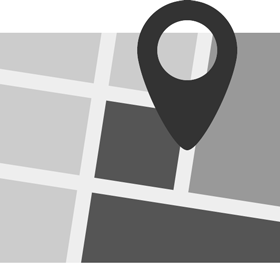
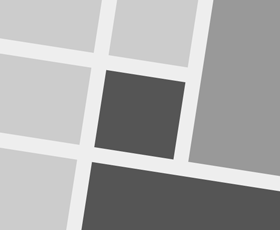
Tweaks RequestGPS and Timeline instructions cells. Adds new attributes property to FontThemer

diff --git a/wineguide/Nearby Restaurants/InstructionsCell_RequestGPS.m b/wineguide/Nearby Restaurants/InstructionsCell_RequestGPS.m
@@ -15,13 +15,13 @@
 @interface InstructionsCell_RequestGPS ()
 
 @property (weak, nonatomic) IBOutlet VariableHeightTV *instructions_VHTV;
-@property (weak, nonatomic) IBOutlet UIImageView *instructionsImageView;
+@property (weak, nonatomic) IBOutlet UIImageView *mapImageView;
 @property (weak, nonatomic) IBOutlet RoundedRectButton *accessButton;
+@property (weak, nonatomic) IBOutlet UIImageView *gpsImageView;
 
 // Vertical constraints
 @property (weak, nonatomic) IBOutlet NSLayoutConstraint *topToInstructionsVHTVConstraint;
-@property (weak, nonatomic) IBOutlet NSLayoutConstraint *instructionsVhtvToInstructionsImageViewConstraint;
-@property (weak, nonatomic) IBOutlet NSLayoutConstraint *instructionsImageViewToAccessButtonConstraint;
+@property (weak, nonatomic) IBOutlet NSLayoutConstraint *instructionsVhtvToAccessButtonConstraint;
 @property (weak, nonatomic) IBOutlet NSLayoutConstraint *accessButtonToBottomConstraint;
 
 @end
@@ -37,8 +37,14 @@
     [self.accessButton setAttributedTitle:accessButtonAttributedText forState:UIControlStateNormal];
     
     NSString *instructions = @"In order to find the restaurant you're at Corkie needs access to your location data.";
-    self.instructions_VHTV.attributedText = [[NSAttributedString alloc] initWithString:instructions attributes:@{NSForegroundColorAttributeName : [ColorSchemer sharedInstance].textSecondary, NSFontAttributeName : [FontThemer sharedInstance].body}];
+    self.instructions_VHTV.attributedText = [[NSAttributedString alloc] initWithString:instructions attributes:[FontThemer sharedInstance].secondaryBodyTextAttributes];
+    self.backgroundColor = [ColorSchemer sharedInstance].customBackgroundColor;
     
+    self.gpsImageView.image = [[UIImage imageNamed:@"instructions_gps.png"] imageWithRenderingMode:UIImageRenderingModeAlwaysTemplate];
+    self.gpsImageView.tintColor = [ColorSchemer sharedInstance].baseColor;
+    
+    self.mapImageView.layer.masksToBounds = YES;
+    self.mapImageView.layer.cornerRadius = 10;
     
     [self setViewHeight];
 }
@@ -46,12 +52,9 @@
 -(void)setViewHeight
 {
     CGFloat height = 0;
-    
     height += self.topToInstructionsVHTVConstraint.constant;
     height += [self.instructions_VHTV height];
-    height += self.instructionsVhtvToInstructionsImageViewConstraint.constant;
-    height += self.instructionsImageView.bounds.size.height;
-    height += self.instructionsImageViewToAccessButtonConstraint.constant;
+    height += self.instructionsVhtvToAccessButtonConstraint.constant;
     height += self.accessButton.bounds.size.height;
     height += self.accessButtonToBottomConstraint.constant;
     

diff --git a/wineguide/Timeline/InstructionsCell_Timeline.m b/wineguide/Timeline/InstructionsCell_Timeline.m
@@ -7,19 +7,43 @@
 //
 
 #import "InstructionsCell_Timeline.h"
+#import "VariableHeightTV.h"
+#import "ColorSchemer.h"
+#import "FontThemer.h"
+
+@interface InstructionsCell_Timeline ()
+
+@property (weak, nonatomic) IBOutlet UIImageView *instructionsImageView;
+@property (weak, nonatomic) IBOutlet VariableHeightTV *instructionsVHTV;
+
+@property (weak, nonatomic) IBOutlet NSLayoutConstraint *topToInstructionsVhtvConstraint;
+@property (weak, nonatomic) IBOutlet NSLayoutConstraint *instructionsVhtvToBottomConstraint;
+@end
 
 @implementation InstructionsCell_Timeline
 
 - (void)awakeFromNib
 {
     // Initialization code
+    
+    NSString *instructions = @"Your timeline is where you keep track of all the wines you drink.\n\nTo add a Tasting Record to your timeline go to that wine's details page and click the 'Tried It' button.";
+    self.instructionsVHTV.attributedText = [[NSAttributedString alloc] initWithString:instructions attributes:[FontThemer sharedInstance].secondaryBodyTextAttributes];
+    
+    self.instructionsImageView.image = [[UIImage imageNamed:@"instructions_timeline.png"] imageWithRenderingMode:UIImageRenderingModeAlwaysTemplate];
+    self.instructionsImageView.tintColor = [ColorSchemer sharedInstance].baseColor;
+    
+    [self setViewHeight];
 }
 
-- (void)setSelected:(BOOL)selected animated:(BOOL)animated
-{
-    [super setSelected:selected animated:animated];
 
-    // Configure the view for the selected state
+-(void)setViewHeight
+{
+    CGFloat height = 0;
+    height += self.topToInstructionsVhtvConstraint.constant;
+    height += [self.instructionsVHTV height]*1.1;
+    height += self.instructionsVhtvToBottomConstraint.constant;
+    
+    self.bounds = CGRectMake(0, 0, self.bounds.size.width, height);
 }
 
 @end

diff --git a/wineguide/controllers/UserProfileVC.m b/wineguide/controllers/UserProfileVC.m
@@ -14,6 +14,7 @@
 #import "Timeline_SICDTVC.h"
 #import "Cellar_SICDTVC.h"
 #import "ColorSchemer.h"
+#import "FontThemer.h"
 
 #define USER_PROFILE_PAGE_CELL  @"UserCell"
 #define USER_ENTITY  @"User"
@@ -103,17 +104,17 @@
 
 -(void)setupNameLabel
 {
-    NSString *name;
+    NSString *text;
     if(self.user.nameFirst){
-        name = [NSString stringWithFormat:@"%@ %@.",self.user.nameFirst, self.user.nameLastInitial];
+        text = [NSString stringWithFormat:@"%@ %@.",self.user.nameFirst, self.user.nameLastInitial];
     } else {
         if(self.user.isMe){
-            name = @"Create a profile and:\n- add friends to your tasting records\n- see which wines your friends like and are drinking\n- sync your devices\n- etc.";
+            text = @"Create a profile and:\n・add friends to your tasting records\n・see which wines your friends like and are drinking\n・sync your devices\n・etc.";
         } else {
-            name = @"";
+            text = @"";
         }
     }
-    self.nameLabel.text = name;
+    self.nameLabel.attributedText = [[NSAttributedString alloc] initWithString:text attributes:[FontThemer sharedInstance].secondaryBodyTextAttributes];
 }
 
 -(void)setupUserProfileImage

diff --git a/wineguide/model/FontThemer.m b/wineguide/model/FontThemer.m
@@ -7,6 +7,7 @@
 //
 
 #import "FontThemer.h"
+#import "ColorSchemer.h"
 
 @interface FontThemer ()
 
@@ -16,6 +17,7 @@
 @property (nonatomic, readwrite) UIFont *caption1;
 @property (nonatomic, readwrite) UIFont *caption2;
 @property (nonatomic, readwrite) UIFont *footnote;
+@property (nonatomic, readwrite) NSDictionary *secondaryBodyTextAttributes;
 
 @end
 
@@ -62,6 +64,21 @@ static FontThemer *sharedInstance;
 {
     return [UIFont preferredFontForTextStyle:UIFontTextStyleFootnote];
 }
+
+
+-(NSDictionary *)secondaryBodyTextAttributes
+{
+    return @{NSForegroundColorAttributeName : [ColorSchemer sharedInstance].textSecondary, NSFontAttributeName : [FontThemer sharedInstance].body};
+}
+
+
+
+
+
+
+
+
+
 
 
 

diff --git a/wineguide/controllers/Timeline_SICDTVC.m b/wineguide/controllers/Timeline_SICDTVC.m
@@ -44,6 +44,12 @@
     [self setupFetchedResultsController];
 }
 
+#pragma mark - Setup
+
+-(void)registerInstructionCellNib
+{
+    [self.tableView registerNib:[UINib nibWithNibName:@"InstructionsCell_Timeline" bundle:nil] forCellReuseIdentifier:INSTRUCTIONS_CELL_REUSE_IDENTIFIER];
+}
 
 -(void)setupFetchedResultsController
 {

diff --git a/wineguide/model/FontThemer.h b/wineguide/model/FontThemer.h
@@ -18,5 +18,6 @@
 @property (nonatomic, readonly) UIFont *caption1;
 @property (nonatomic, readonly) UIFont *caption2;
 @property (nonatomic, readonly) UIFont *footnote;
+@property (nonatomic, readonly) NSDictionary *secondaryBodyTextAttributes;
 
 @end

diff --git a/wineguide/controllers/NearbyRestaurants_SICDTVC.m b/wineguide/controllers/NearbyRestaurants_SICDTVC.m
@@ -17,7 +17,6 @@
 #import "InstructionsCell_RequestGPS.h"
 
 #define SHOW_OR_HIDE_LEFT_PANEL @"ShowHideLeftPanel"
-#define RESTAURANT_ENTITY @"Restaurant"
 
 @implementation NearbyRestaurants_SICDTVC
 
